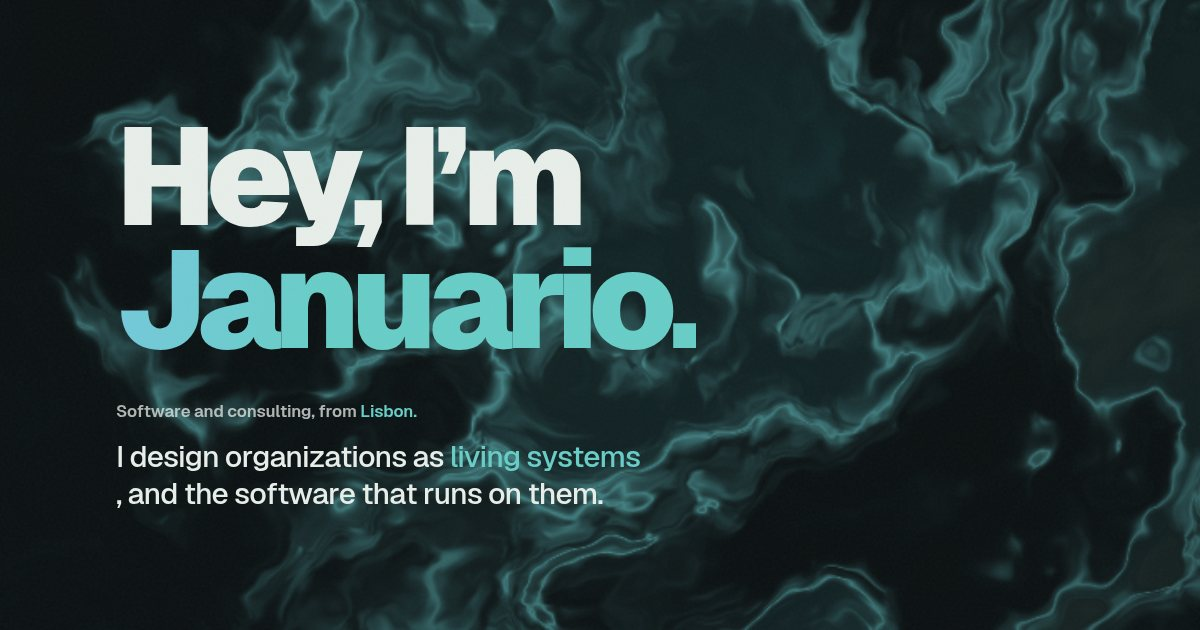
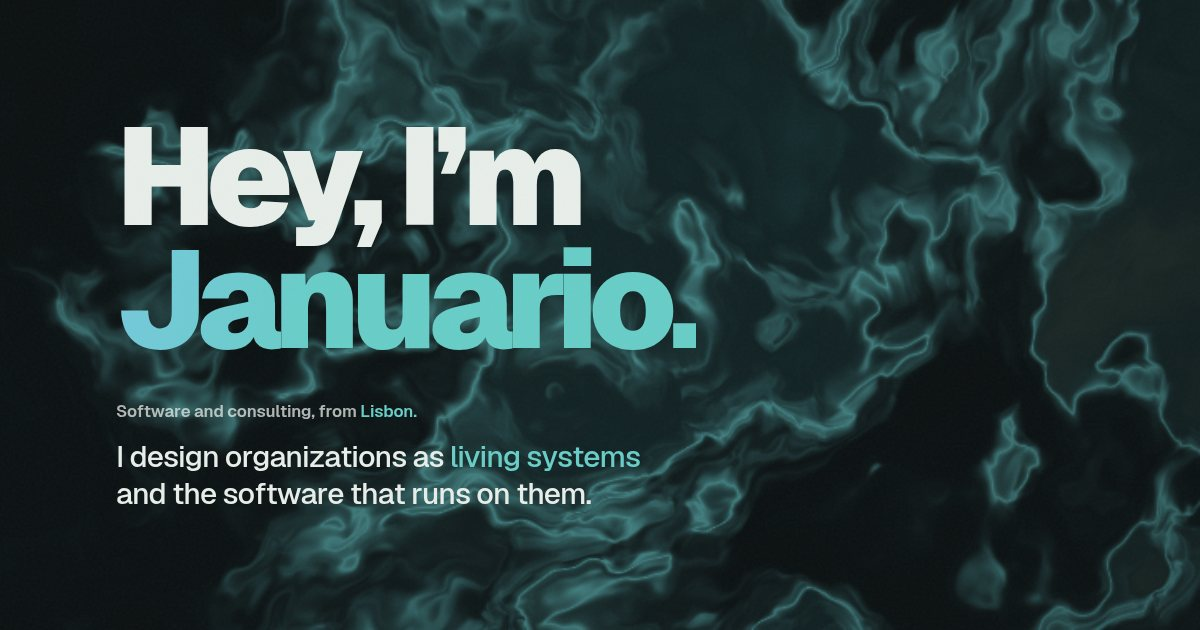
copy: quote without the stray comma

diff --git a/index.html b/index.html
@@ -4,11 +4,11 @@
   <meta charset="UTF-8">
   <meta name="viewport" content="width=device-width, initial-scale=1.0, viewport-fit=cover">
   <title>Januario Pinto | Software &amp; consulting</title>
-  <meta name="description" content="Januario Pinto designs organizations as living systems, and the software that runs on them. Software and consulting from Lisbon.">
+  <meta name="description" content="Januario Pinto designs organizations as living systems and the software that runs on them. Software and consulting from Lisbon.">
   <meta name="author" content="Januario Pinto">
   <meta property="og:type" content="website">
   <meta property="og:title" content="Januario Pinto">
-  <meta property="og:description" content="I design organizations as living systems, and the software that runs on them.">
+  <meta property="og:description" content="I design organizations as living systems and the software that runs on them.">
   <meta property="og:image" content="https://januariopinto.com/img/og.jpg">
   <meta property="og:image:width" content="1200">
   <meta property="og:image:height" content="630">
@@ -53,7 +53,7 @@
           <span class="line"><span class="accent sheen">Januario.</span></span>
         </h1>
         <p class="where" data-split data-letters style="--base: .55s">Software and consulting, from <em>Lisbon.</em></p>
-        <p class="thesis" data-split data-letters style="--base: 1.5s">I design organizations as <em>living systems</em>, and the software that runs on them.</p>
+        <p class="thesis" data-split data-letters style="--base: 1.5s">I design organizations as <em>living systems</em> and the software that runs on them.</p>
         <p class="keys" aria-hidden="true"><kbd>&darr;</kbd> or scroll to continue</p>
       </div>
     </div>
